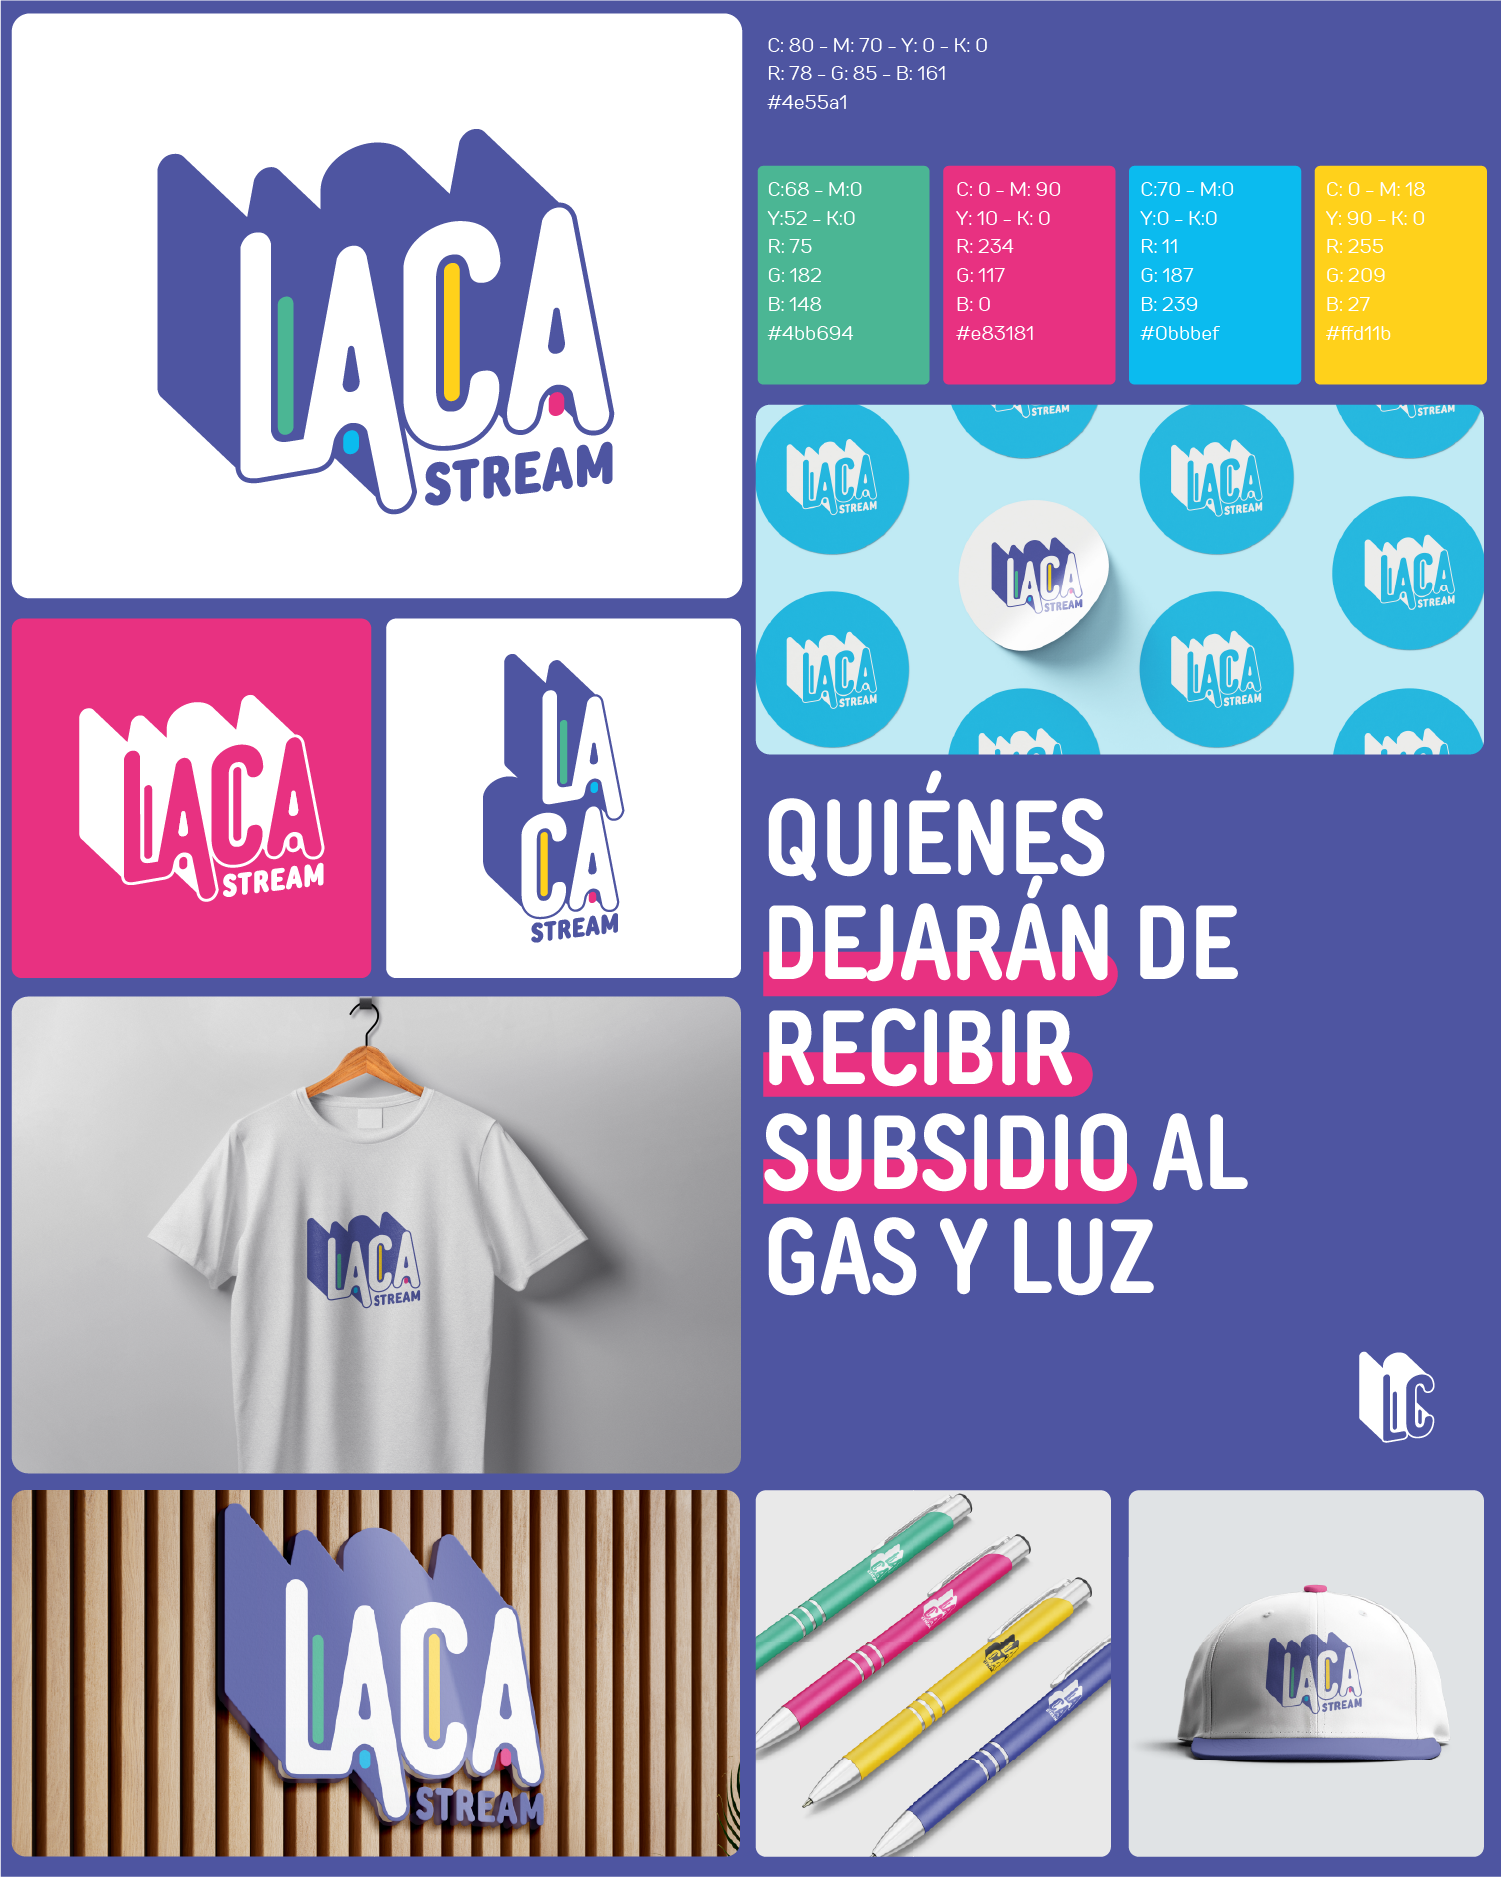
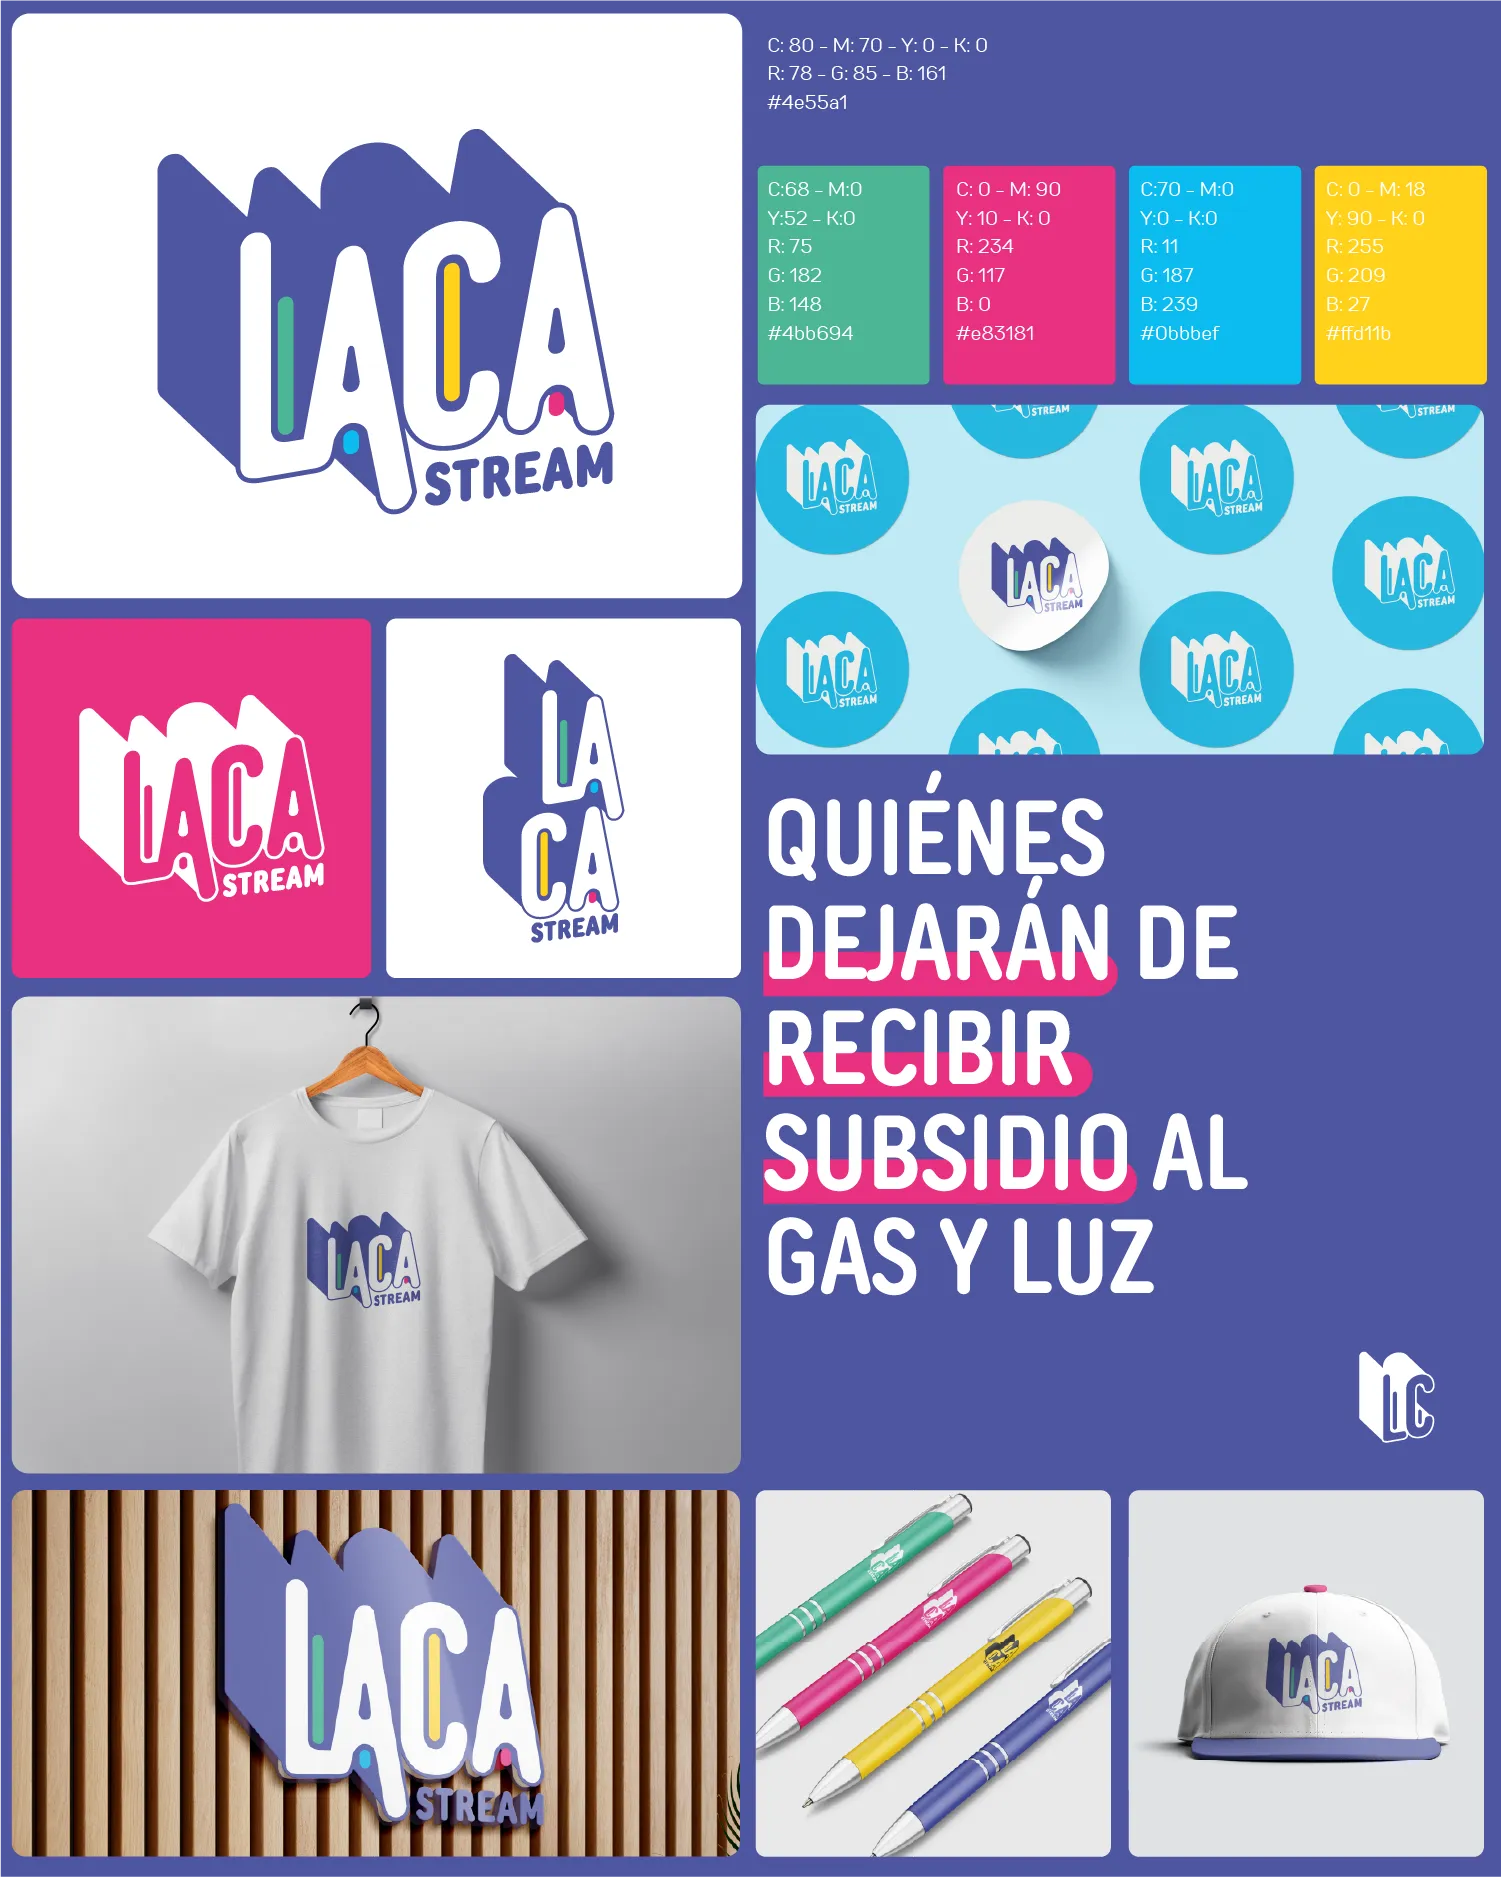
perf: comprimir imágenes WebP y compilar SCSS
- Reoptimización de 18 imágenes con cwebp q80/q70 (28M → 4.9M, -82%)
- Agregados atributos width/height a 25 <img> en index.html (anti-CLS)
- CSS compilado desde scss/main.scss

diff --git a/css/main.css b/css/main.css
@@ -1367,5 +1367,3 @@ figcaption {
     cursor: auto !important;
   }
 }
-
-/*# sourceMappingURL=main.css.map */
